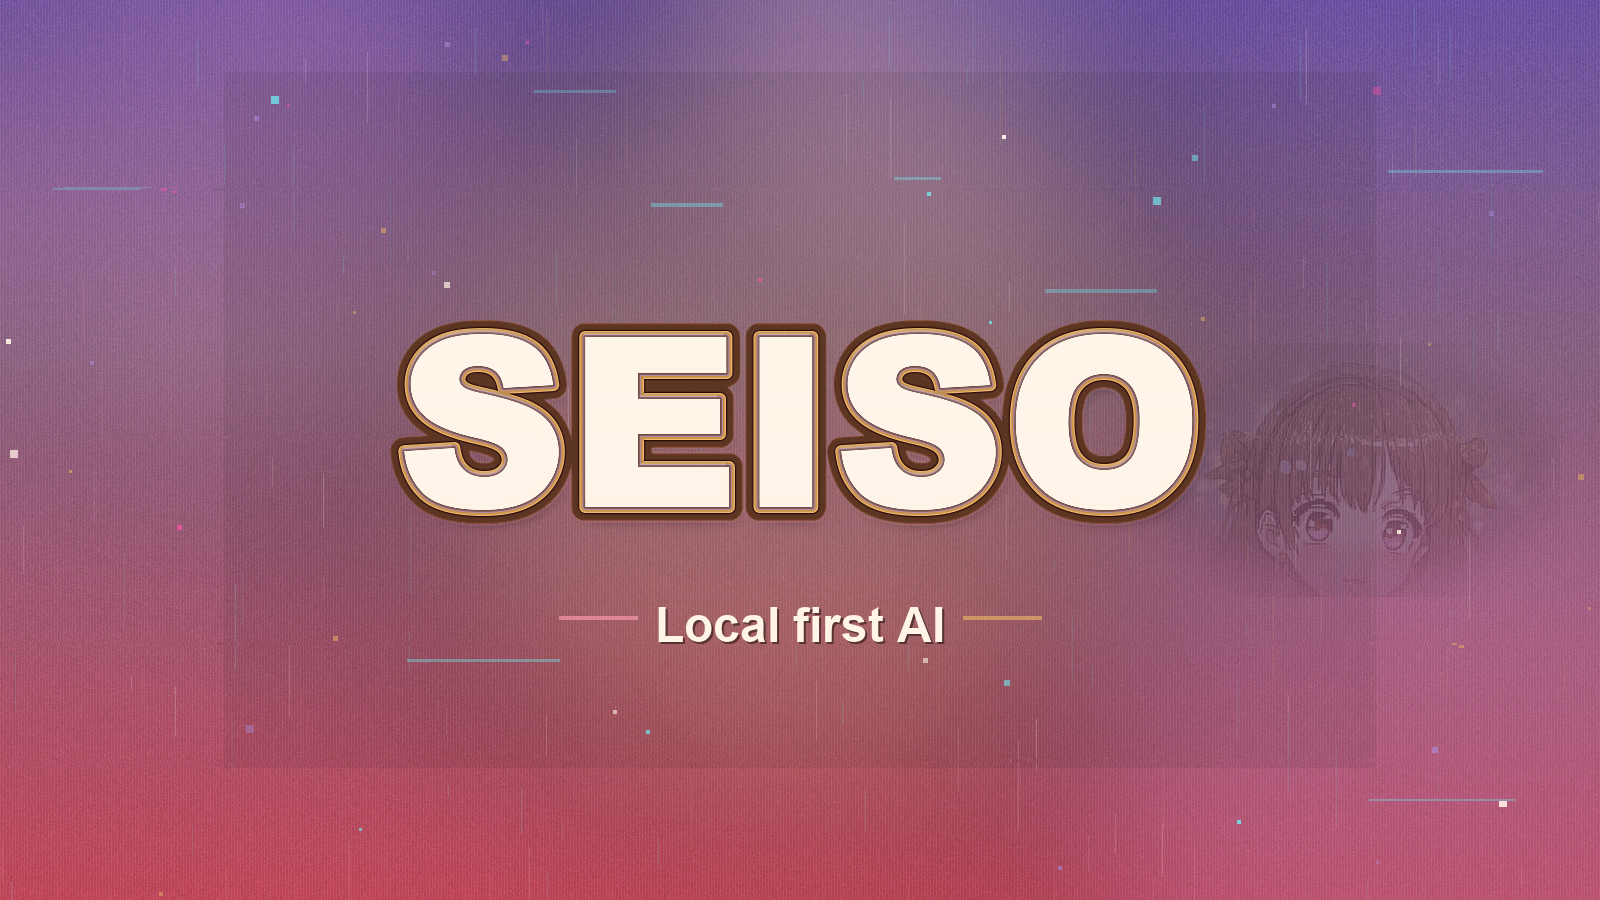
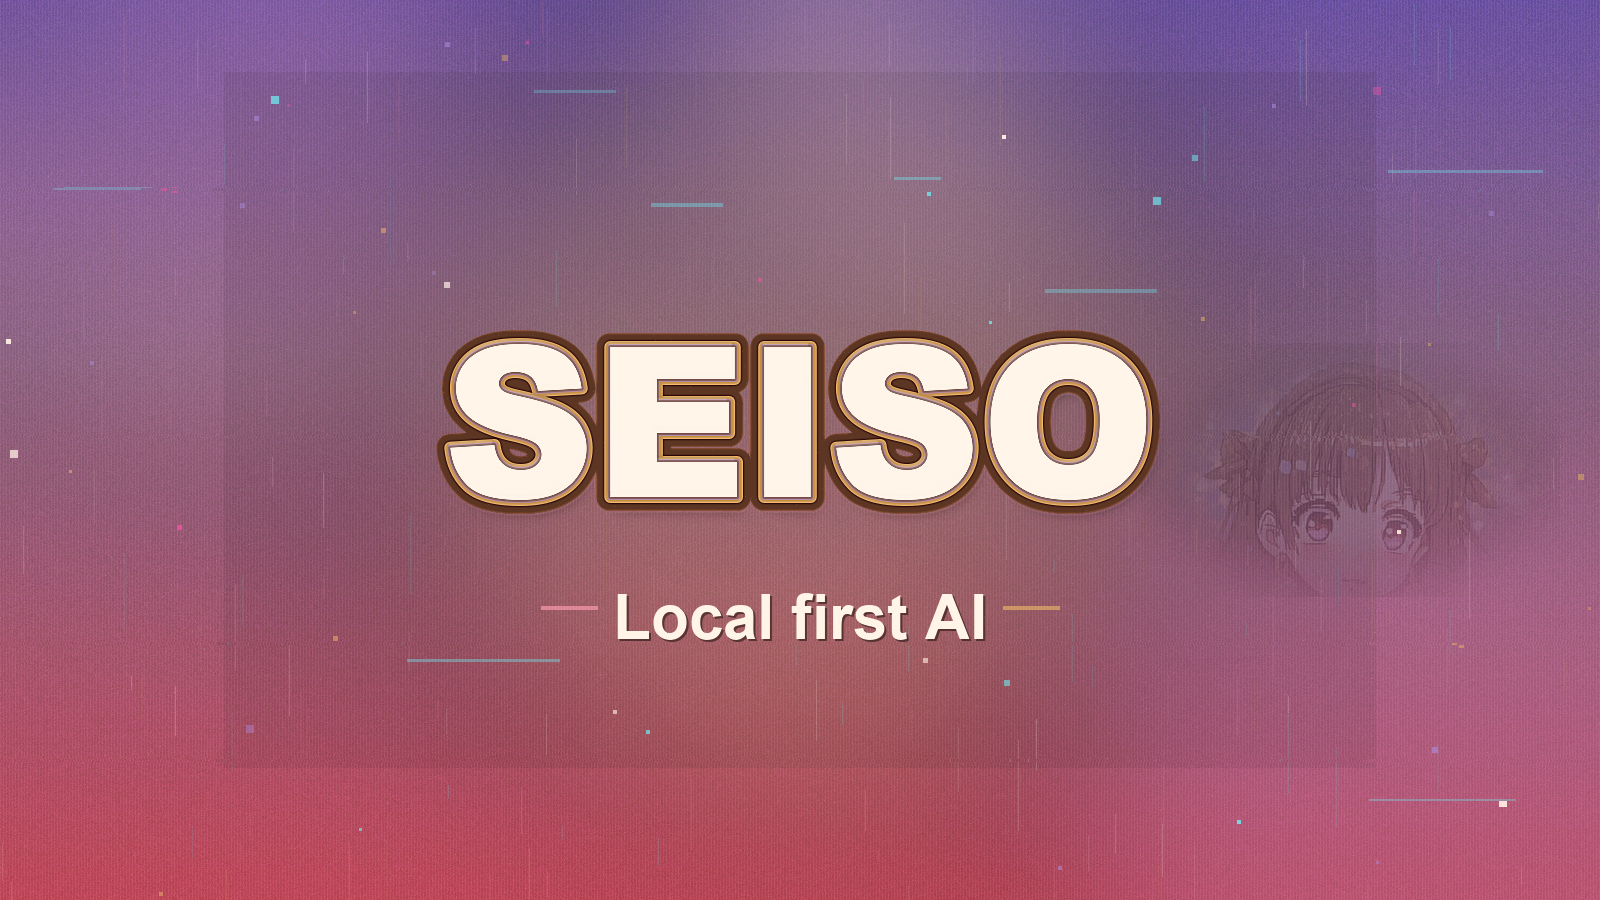
Shrink dashboard wordmark; enlarge Local first AI subline.

Changed region(s): [[0.2188, 0.3422, 0.7812, 0.5911], [0.3438, 0.6533, 0.6562, 0.7156]]

diff --git a/forge-ui/src/styles.css b/forge-ui/src/styles.css
@@ -162,17 +162,20 @@ a:hover { color: #6eddd2; }
 
 .brand.brand-wordmark {
   display: block;
-  padding: 0.35rem 0.25rem 0.55rem;
+  padding: 0.2rem 0.15rem 0.4rem;
+  text-align: center;
 }
 
 .sidebar-brand-wordmark {
   display: block;
-  width: 100%;
+  width: 68%;
+  max-width: 9.25rem;
   height: auto;
+  margin: 0 auto;
   border-radius: var(--radius-sm);
   border: 1px solid var(--border-strong);
   box-shadow: var(--shadow-sm);
-  object-fit: cover;
+  object-fit: contain;
 }
 
 .brand-text {

diff --git a/scripts/generate_seiso_wordmark.py b/scripts/generate_seiso_wordmark.py
@@ -348,21 +348,23 @@ def _subtitle(img: Image.Image, font_sub: ImageFont.ImageFont) -> Image.Image:
     tw = bbox[2] - bbox[0]
     th = bbox[3] - bbox[1]
     x = (W - tw) // 2
-    y = H // 2 + 148
+    y = H // 2 + 132
     # Soft shadow for legibility
     draw.text((x + 2, y + 2), label, font=font_sub, fill=(*DEEP, 160))
     draw.text((x, y), label, font=font_sub, fill=(*CREAM, 245))
     # Simple side rules — aligned to text midline
     mid = y + th // 2 + 2
-    draw.rectangle((x - 96, mid - 1, x - 18, mid + 2), fill=(*PINK, 190))
-    draw.rectangle((x + tw + 18, mid - 1, x + tw + 96, mid + 2), fill=(*GOLD, 190))
+    draw.rectangle((x - 72, mid - 1, x - 16, mid + 2), fill=(*PINK, 190))
+    draw.rectangle((x + tw + 16, mid - 1, x + tw + 72, mid + 2), fill=(*GOLD, 190))
     return Image.alpha_composite(img.convert("RGBA"), overlay)
 
 
 def generate(out: Path, seed: int = SEED) -> Path:
     rng = random.Random(seed)
-    font = _font(238, display=True)
-    font_sub = _font(48, display=False)
+    # Slightly smaller SEISO + larger subline so “Local first AI” stays
+    # readable when the dashboard logo is displayed smaller.
+    font = _font(210, display=True)
+    font_sub = _font(62, display=False)
     mascot = _load_mascot()
 
     bg = _warm_bg(rng, mascot)
